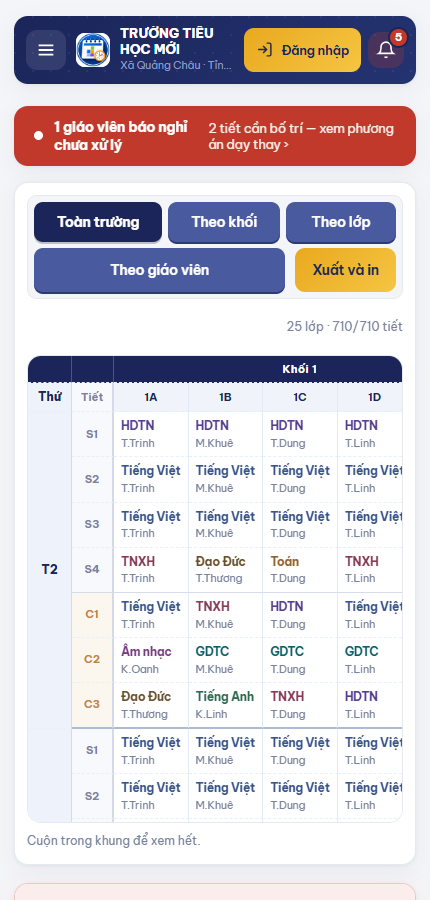
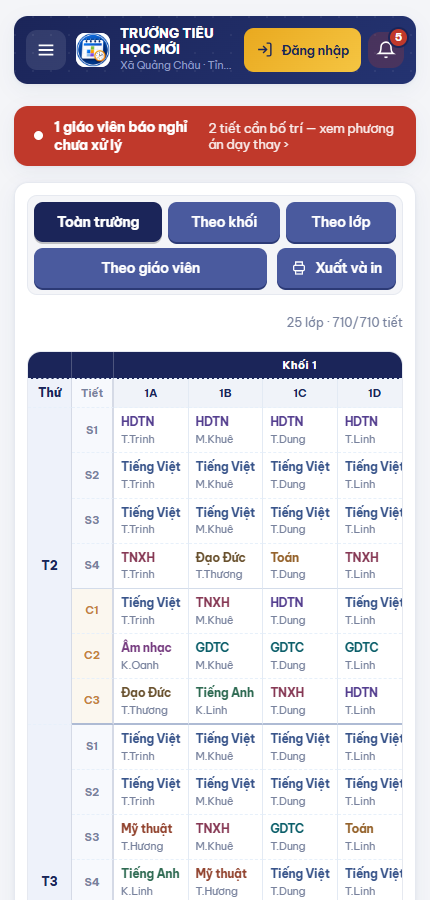
Dồn mọi con số về một cột dọc; lưới ăn gần trọn màn hình
SỬA LỖI: Bảng điều hành bày HAI dải chỉ số giống hệt nhau
Khối .the-so cũ được vô hiệu bằng thuộc tính `hidden` cho nhanh, nhưng
quy tắc tác giả .the-so{display:grid} thắng [hidden]{display:none} của
trình duyệt nên nó vẫn hiện. Chủ dự án phát hiện qua ảnh chụp, không
phải phép thử. Nay xoá hẳn mã — bỏ một khối thì đừng dùng `hidden`.

MỌI CON SỐ VỀ MỘT CỘT DỌC
Trước đó chúng nằm ở ba chỗ và lặp nhau: dải .dai-so ngang, dãy .viec-so
trong khối Việc cần xử lý, và .the-so. Nay chỉ còn .cot-so — bảy dòng
xếp theo thứ tự ưu tiên thật: việc gấp trong ngày → cảnh báo → tiến độ →
quy mô trường. Nằm trong khoảng trống sẵn có dưới vòng tròn tiến độ nên
không tốn thêm một dòng nào của trang.

Số 0 không tô đỏ — báo động giả còn tệ hơn không báo. Có phép thử canh.

LƯỚI CAO THÊM: 52vh → 72vh. Sau khi dọn hết băng rôn và dòng tiêu đề thì
lưới bắt đầu ngay dòng đầu trang, nên cho nó ăn gần trọn màn hình.

NÚT XUẤT VÀ IN cùng màu với bốn thẻ chuyển, phân biệt bằng biểu tượng máy
in chứ không bằng màu — màu vàng cũ hét to hơn cả bốn thẻ chính.

Kiểm thử: 304 thuật toán + 286 giao diện, 0 hỏng. Chrome thật: sạch.

diff --git a/src/index.html b/src/index.html
@@ -755,21 +755,25 @@ tr.pa-tot td{background:var(--xanh-nen)}
 .chuong.gap{background:rgba(192,57,43,.24)}
 .chuong.gap:hover{background:rgba(192,57,43,.36)}
 
-/* ---------- Dải bốn chỉ số trên lưới (3/8/2026) ----------
-   Thay bốn thẻ .ts cao 102px rời nhau bằng MỘT dải liền — cùng thông tin,
-   một phần ba chiều cao, và đọc được cùng lúc với thời khóa biểu ngay dưới. */
-.dai-so{display:grid;grid-template-columns:repeat(auto-fit,minmax(150px,1fr));
-  gap:1px;background:var(--ke);border:1px solid var(--ke);border-radius:var(--r);
-  overflow:hidden;margin-bottom:18px;box-shadow:var(--bong)}
-.ds-o{background:var(--the);border:0;padding:12px 16px;text-align:left;cursor:pointer;
-  border-left:3px solid var(--dsm,#4A6FB5);transition:background .16s}
-.ds-o:hover{background:var(--nen)}
-.ds-o:active{transform:translateY(-2px)}
-.ds-o b{display:block;font-size:23px;font-weight:800;letter-spacing:-.04em;
-  line-height:1.1;color:var(--dsm,#4A6FB5)}
-.ds-o span{display:block;font-size:11.5px;color:var(--chu-mo);margin-top:2px}
-.ds-o.cam{--dsm:#C4823A}.ds-o.luc{--dsm:var(--xanh)}.ds-o.lam{--dsm:#4A6FB5}
-.ds-o.tim{--dsm:#6E52BC}.ds-o.canh{--dsm:var(--canh)}
+/* ---------- Cột chỉ số DỌC, trong thẻ Tiến độ xếp (3/8/2026) ----------
+   Xếp dọc trong khoảng trống sẵn có dưới vòng tròn tiến độ, thay cho dải
+   ngang cũ vốn chiếm một dòng riêng ngay cạnh lưới. */
+.cot-so{display:grid;gap:1px;background:var(--ke);border:1px solid var(--ke);
+  border-radius:var(--r2);overflow:hidden;margin-top:16px}
+.cs-d{display:flex;align-items:baseline;gap:10px;width:100%;text-align:left;cursor:pointer;
+  background:var(--the);border:0;border-left:3px solid var(--ke-2);
+  padding:9px 13px;transition:background .16s}
+.cs-d:hover{background:var(--nen)}
+.cs-d:active{transform:translateY(-2px)}
+.cs-d b{font-size:17px;font-weight:800;letter-spacing:-.03em;min-width:46px;color:var(--chu)}
+.cs-d span{font-size:12.5px;color:var(--chu-mo)}
+/* Ba dòng đầu chỉ tô màu KHI KHÁC 0 — số 0 tô đỏ là báo động giả */
+.cs-d.do{border-left-color:var(--do);background:var(--do-nen)}
+.cs-d.do b{color:var(--do)}
+.cs-d.canh{border-left-color:var(--canh)}
+.cs-d.canh b{color:var(--canh)}
+.cs-d.ok{border-left-color:var(--xanh)}
+.cs-d.ok b{color:var(--xanh)}
 
 /* ---------- Thẻ chuyển cách xem, ngay trong Bảng điều hành ----------
    Là THẺ chuyển tại chỗ, không phải nút điều hướng: bấm xong vẫn đứng đây,
@@ -790,9 +794,11 @@ tr.pa-tot td{background:var(--xanh-nen)}
 .xem-nut:hover{background:var(--nav-nhat-2)}
 .xem-nut:active{transform:translateY(-2px)}
 .xem-nut.on{background:var(--nav);font-weight:700;box-shadow:0 2px 0 rgba(0,0,0,.22)}
-/* Nút Xuất và in ngang hàng với bốn thẻ chuyển — không giãn theo, giữ
-   nguyên bề ngang để mắt tách được nó khỏi nhóm thẻ. */
-.xem-xuat{flex:0 0 auto;min-height:40px;margin-left:4px}
+/* Nút Xuất và in ngang hàng với bốn thẻ chuyển. CÙNG MÀU với chúng
+   (3/8/2026) — màu vàng cũ hét to hơn cả bốn thẻ chính. Phân biệt bằng
+   BIỂU TƯỢNG máy in và bằng việc không giãn theo, chứ không bằng màu. */
+.xem-xuat{flex:0 0 auto;margin-left:4px;display:flex;align-items:center;gap:8px}
+.xem-xuat svg{width:16px;height:16px;stroke-width:1.9}
 /* Hàng phụ: dải chọn (điểm trường / khối / lớp / giáo viên) + nhãn số liệu */
 .dai-phu{display:flex;gap:12px;align-items:center;flex-wrap:wrap;min-height:34px}
 .dai-phu .meta{margin-left:auto;font-size:12px;color:var(--chu-mo);white-space:nowrap}
@@ -5033,21 +5039,8 @@ function mDieuHanh(){
      nên không ai bỏ sót; xem `bangRon()`. */
   return daiViecGap(vc)
   + kheSanPham
-  + kheVieccanXuLy(vc, canhBao)
-  + kheSoLieu(ds.length, pt, daXep, tongCan, gvTrongPV.size)
   + (coSanPham?'':thanhBuoc(0))+`
   <div class="dh">
-  <div class="the-so" hidden>
-    <div class="ts cam" data-di="lop"><div class="ts-ic"><svg viewBox="0 0 24 24" fill="none" stroke="currentColor"><rect x="3" y="4" width="18" height="17" rx="2.5"/><path d="M3 9h18M8 4V2M16 4V2"/></svg></div>
-      <div class="ts-so">${ds.length}</div><div class="ts-n">Lớp học</div></div>
-    <div class="ts luc" data-di="xep"><div class="ts-ic"><svg viewBox="0 0 24 24" fill="none" stroke="currentColor"><path d="M20 6L9 17l-5-5"/></svg></div>
-      <div class="ts-so">${pt}%</div><div class="ts-n">Đã xếp · ${daXep}/${tongCan} tiết</div></div>
-    <div class="ts lam" data-di="giaovien"><div class="ts-ic"><svg viewBox="0 0 24 24" fill="none" stroke="currentColor"><circle cx="12" cy="8" r="3.5"/><path d="M4.5 20c0-3.6 3.4-6 7.5-6s7.5 2.4 7.5 6"/></svg></div>
-      <div class="ts-so">${gvTrongPV.size}</div><div class="ts-n">Giáo viên</div></div>
-    <div class="ts tim" data-di="diemtruong"><div class="ts-ic"><svg viewBox="0 0 24 24" fill="none" stroke="currentColor"><path d="M3 21h18M5 21V9l7-5 7 5v12"/></svg></div>
-      <div class="ts-so">${dtTrongPV().length}</div><div class="ts-n">Điểm trường</div></div>
-  </div>
-
   <div class="dh-duoi">
     <div class="the">
       <div class="the-d"><h2>Tiến độ xếp</h2><span class="meta">${daXep}/${tongCan} tiết</span></div>
@@ -5062,12 +5055,14 @@ function mDieuHanh(){
           </div>
         </div>
         <div class="tien" style="margin-top:16px"><i style="width:${pt}%"></i></div>
+        ${kheSoLieu(ds.length, pt, daXep, tongCan, gvTrongPV.size, vc)}
         <div style="margin-top:15px;display:flex;gap:10px;flex-wrap:wrap">
           ${duocXep()?`<button class="b b-vien b-nho" data-di="xep">Xếp thời khóa biểu</button>`:''}
           <button class="b b-vien b-nho" data-di="tkblop">Xem theo lớp</button>
         </div>
       </div>
     </div>
+    ${kheVieccanXuLy(vc, canhBao)}
 
     <div class="the">
       <div class="the-d"><h2>Cảnh báo điều hành</h2><span class="meta">${KT.vm.length} mục</span></div>
@@ -5158,15 +5153,31 @@ function luoiTuanLop(id){
    con số. Nay gộp thành MỘT dải liền, cao bằng một phần ba, đặt ngay trên
    thời khóa biểu để đọc được cùng lúc với lưới. Bấm được, đi thẳng tới màn
    hình tương ứng. */
-function kheSoLieu(soLop, pt, daXep, tongCan, soGV){
+function kheSoLieu(soLop, pt, daXep, tongCan, soGV, vc){
+  /* DỌC theo THỨ TỰ ƯU TIÊN (3/8/2026), nằm trong thẻ Tiến độ xếp.
+
+     Trước đó là một dải NGANG bốn ô, và trước nữa là bốn tấm thẻ cao 102px.
+     Cả hai đều nằm ở dải đất đắt nhất — ngay trên hoặc ngay dưới lưới — để
+     nói những con số mà người dùng chỉ liếc qua. Nay xếp dọc trong khoảng
+     trống sẵn có dưới vòng tròn tiến độ: không tốn thêm một dòng nào của
+     trang, mà lại đọc được theo thứ tự.
+
+     Thứ tự là ƯU TIÊN THẬT, không phải thứ tự dữ liệu:
+       việc gấp trong ngày → cảnh báo → tiến độ → quy mô trường.
+     Ba dòng đầu tô màu khi khác 0; bốn dòng sau chỉ là bối cảnh. */
+  const hn=ngayISO(new Date());
+  const dsThay=(S.dayThay||[]).filter(x=>x.ngay>=hn).length;
   const o=[
-    ['lop',      soLop,    'Lớp học',      'cam'],
-    ['xep',      pt+'%',   `Đã xếp · ${daXep}/${tongCan} tiết`, pt>=100?'luc':'canh'],
-    ['giaovien', soGV,     'Giáo viên',    'lam'],
-    ['diemtruong', dtTrongPV().length, 'Điểm trường', 'tim'],
+    ['daythay',  vc.soNghi,  'giáo viên báo nghỉ chưa xử lý', vc.soNghi?'do':''],
+    ['daythay',  dsThay,     'tiết dạy thay sắp tới',         dsThay?'canh':''],
+    ['kiemtra',  vc.soCanhBao,'cảnh báo thời khóa biểu',      vc.soCanhBao?'canh':''],
+    ['xep',      pt+'%',     `đã xếp · ${daXep}/${tongCan} tiết`, pt>=100?'ok':'canh'],
+    ['lop',      soLop,      'lớp học',       ''],
+    ['giaovien', soGV,       'giáo viên',     ''],
+    ['diemtruong', dtTrongPV().length, 'điểm trường', ''],
   ];
-  return `<div class="dai-so">${o.map(([di,v,t,m])=>
-    `<button class="ds-o ${m}" data-di="${di}"><b>${v}</b><span>${t}</span></button>`).join('')}</div>`;
+  return `<div class="cot-so">${o.map(([di,v,t,m])=>
+    `<button class="cs-d ${m}" data-di="${di}"><b>${v}</b><span>${t}</span></button>`).join('')}</div>`;
 }
 
 /* ---------- Khối SẢN PHẨM: bốn cách xem, chuyển TẠI CHỖ ----------
@@ -5183,6 +5194,11 @@ function kheSoLieu(soLop, pt, daXep, tongCan, soGV){
    Ở đây CHỈ ĐỌC. */
 const THE_XEM = [['toantruong','Toàn trường'],['tkbkhoi','Theo khối'],
                  ['tkblop','Theo lớp'],['tkbgv','Theo giáo viên']];
+/* Chiều cao khung lưới trên Bảng điều hành. 52vh còn hụt — sau khi dọn hết
+   băng rôn và dòng tiêu đề thì lưới bắt đầu ngay dòng đầu trang, nên cho nó
+   ăn gần trọn màn hình. Vẫn để lại một khoảng để người dùng thấy còn nội
+   dung bên dưới mà cuộn tiếp. */
+const CAO_LUOI_DH = '72vh';
 
 function kheSanPhamHTML(ds, daXep, tongCan){
   if(!THE_XEM.some(x=>x[0]===S.dhXem)) S.dhXem='toantruong';
@@ -5192,7 +5208,7 @@ function kheSanPhamHTML(ds, daXep, tongCan){
   let dai='', luoi='', meta='';
   if(xem==='toantruong'){
     dai=daiDiemLuoi();
-    luoi=luoiRongHTML(xepTheoKhoi(lopChoLuoi()),true,'52vh');
+    luoi=luoiRongHTML(xepTheoKhoi(lopChoLuoi()),true,CAO_LUOI_DH);
     meta=`${ds.length} lớp · ${daXep}/${tongCan} tiết`;
   }else if(xem==='tkbkhoi'){
     const khoi=khoiDangCo(ds);
@@ -5200,7 +5216,7 @@ function kheSanPhamHTML(ds, daXep, tongCan){
     const lop=ds.filter(l=>khoiCuaLop(l)===S.khoiXem);
     dai=`<div class="dai-dt">${khoi.map(k=>`<button class="dt-nut${k===S.khoiXem?' on':''}"
       data-dhkhoi="${k}">Khối ${k}<span>${ds.filter(l=>khoiCuaLop(l)===k).length}</span></button>`).join('')}</div>`;
-    luoi=luoiRongHTML(xepTheoKhoi(lop),false,'52vh');
+    luoi=luoiRongHTML(xepTheoKhoi(lop),false,CAO_LUOI_DH);
     meta=`Khối ${S.khoiXem} · ${lop.length} lớp`;
   }else if(xem==='tkblop'){
     if(!ds.some(l=>l.id===S.lopXem)) S.lopXem=ds[0]?.id;
@@ -5238,7 +5254,9 @@ function kheSanPhamHTML(ds, daXep, tongCan){
       <div class="dai-xem">
         ${THE_XEM.map(([v,t])=>
           `<button class="xem-nut${v===xem?' on':''}" data-dhxem="${v}">${t}</button>`).join('')}
-        <button class="b b-vang xem-xuat" data-di="xuatin">Xuất và in</button>
+        <button class="xem-nut xem-xuat" data-di="xuatin"><svg viewBox="0 0 24 24" fill="none"
+          stroke="currentColor"><path d="M7 8V3h10v5"/><rect x="4" y="8" width="16" height="8" rx="2"/>
+          <path d="M7 16h10v5H7z"/></svg>Xuất và in</button>
       </div>
       <div class="dai-phu">
         ${dai}
@@ -5319,13 +5337,7 @@ function kheVieccanXuLy(vc, canhBao){
         <b>Hôm nay không có giáo viên báo nghỉ.</b>
         <div class="cb-g">${vc.daXuLy.length
           ? `${vc.daXuLy.length} thông báo nghỉ sắp tới đã được bố trí dạy thay xong.`
-          : 'Thầy cô gửi thông báo từ mục Báo nghỉ; có ai báo là hiện ngay ở đây.'}</div></div></div>
-      <div class="viec-so" style="margin-top:14px">
-        <div class="lam"><b>${String(vc.nghiHomNay).padStart(2,'0')}</b><span>giáo viên nghỉ hôm nay</span></div>
-        <div class="ok"><b>${String(vc.daXuLy.length).padStart(2,'0')}</b><span>trường hợp đã xử lý</span></div>
-        <div class="${cb?'canh':'ok'}"><b>${String(vc.soCanhBao).padStart(2,'0')}</b><span>cảnh báo thời khóa biểu</span></div>
-        <div class="lam"><b>${String((S.dayThay||[]).filter(x=>x.ngay>=ngayISO(new Date())).length).padStart(2,'0')}</b><span>tiết dạy thay sắp tới</span></div>
-      </div>`}
+          : 'Thầy cô gửi thông báo từ mục Báo nghỉ; có ai báo là hiện ngay ở đây.'}</div></div></div>`}
     </div>
   </div>`;
 }

diff --git a/CLAUDE.md b/CLAUDE.md
@@ -499,11 +499,29 @@ nhau, mà **băng rôn mang tên trường** — thứ neo cả trang — lại 
 
 ```
 1. dải đỏ việc gấp  CHỈ hiện khi có giáo viên báo nghỉ chưa xử lý
-2. THỜI KHÓA BIỂU   bốn thẻ chuyển + nút Xuất và in cùng một hàng, rồi lưới
-3. việc cần xử lý
-4. dải bốn chỉ số   lớp · % đã xếp · giáo viên · điểm trường
-5. tiến độ · cảnh báo · điểm trường
+2. THỜI KHÓA BIỂU   bốn thẻ chuyển + nút Xuất và in cùng hàng, rồi lưới (72vh)
+3. ba cột dưới      [tiến độ + chỉ số dọc + việc cần xử lý] · cảnh báo · điểm trường
 ```
+
+**Mọi con số dồn vào MỘT cột dọc trong thẻ Tiến độ xếp** *(3/8/2026)*. Trước
+đó chúng nằm ở ba chỗ và **lặp nhau**: dải `.dai-so` ngang, dãy `.viec-so`
+trong khối Việc cần xử lý, và `.the-so` cũ. Nay chỉ còn `.cot-so` — bảy dòng
+xếp **theo thứ tự ưu tiên thật**: việc gấp trong ngày → cảnh báo → tiến độ →
+quy mô trường. Nó nằm trong khoảng trống sẵn có dưới vòng tròn tiến độ nên
+**không tốn thêm một dòng nào** của trang.
+
+⚠ **Số 0 không được tô đỏ.** Ba dòng đầu chỉ lên màu khi khác 0 — báo động
+giả còn tệ hơn không báo. Có phép thử canh.
+
+⚠ **Bẫy đã dính: `hidden` bị `display:grid` đè.** Khi dồn các dải chỉ số về
+một chỗ, khối `.the-so` cũ được vô hiệu bằng thuộc tính `hidden` cho nhanh —
+nhưng quy tắc tác giả `.the-so{display:grid}` thắng `[hidden]{display:none}`
+của trình duyệt, nên nó **vẫn hiện**, và Bảng điều hành bày hai dải số giống
+hệt nhau. Chủ dự án phát hiện qua ảnh chụp, không phải phép thử. Bỏ một khối
+thì **xoá hẳn mã**, đừng dùng `hidden`.
+
+**Nút Xuất và in cùng màu với bốn thẻ chuyển**, phân biệt bằng **biểu tượng
+máy in** chứ không bằng màu — màu vàng cũ hét to hơn cả bốn thẻ chính.
 
 **Băng rôn navy đã BỎ HẲN, và thẻ lưới KHÔNG có dòng tiêu đề** *(3/8/2026)*.
 Cả hai chỉ lặp lại thứ đã nói ở chỗ khác — tên trường có sẵn ở thanh trên
